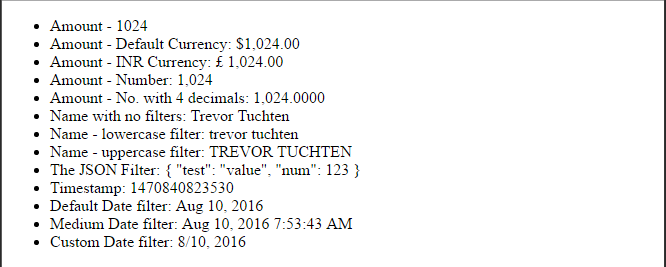
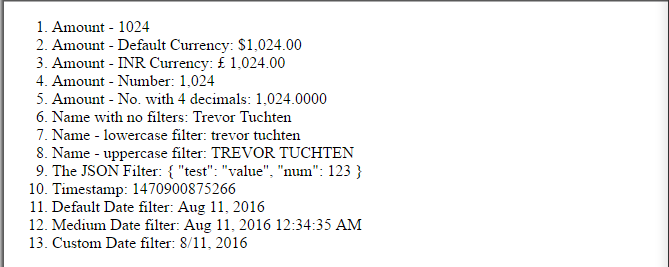
Changed ul to ol

Changed region(s): [[0.0, 0.0, 1.0, 1.0]]

diff --git a/Example-02-filter-number-string/index.html b/Example-02-filter-number-string/index.html
@@ -11,7 +11,7 @@
 </head>
 <body ng-app="filtersApp">
 
-    <ul ng-controller="FilterCtrl as ctrl" ng-cloak>
+    <ol ng-controller="FilterCtrl as ctrl" ng-cloak>
         <li>
             Amount - {{ctrl.amount}}
         </li>
@@ -52,7 +52,7 @@
         <li>
             Custom Date filter: {{ctrl.startTime | date:'M/dd, yyyy'}}
         </li>
-    </ul>
+    </ol>
 
 <script src="bower_components/angular/angular.min.js"></script>
 <script type="text/javascript">
